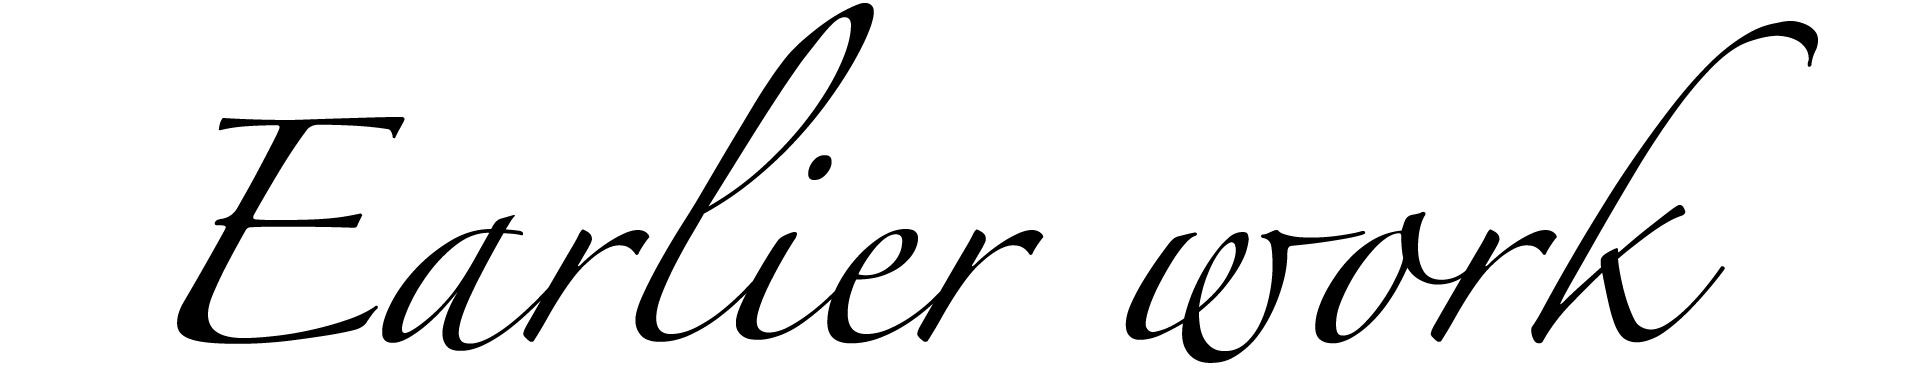
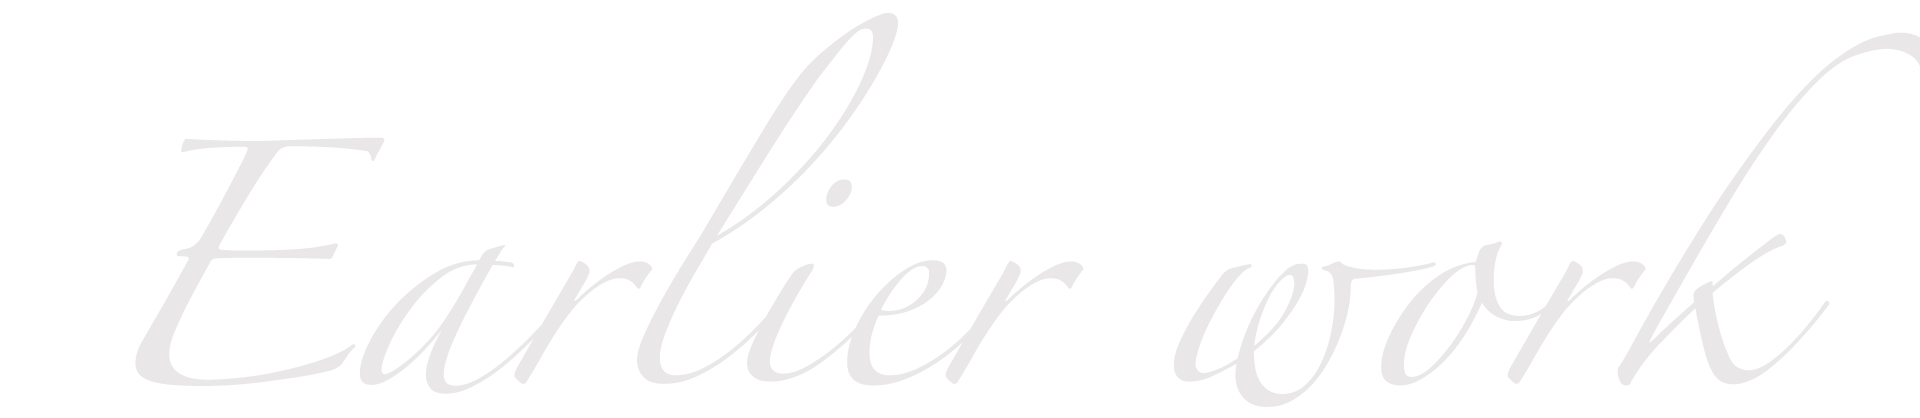
build

diff --git a/src/components/comp/gallery.vue b/src/components/comp/gallery.vue
@@ -1,16 +1,66 @@
 <template>
-    <section class="gallery-wrap gray-bg my-5">
-
-        <div class="fornow">
-
+    <section class="gallery-wrap  my-5">
+        <div>
             <v-img :src="getImgUrl('earlierwork.png')" class="earlier-work">
             </v-img>
+            <div class="gallery-container gray-bg">
+                <h2 class="display-4 font-weight-bold text-uppercase text-xs-right pr-5"><span>{{heading}}</span></h2>
+                <!-- <h3 class="mt-5 text-uppercase display-3 font-weight-black mb-3">{{heading}}</h3> -->
+
+                <div>
+                    <v-layout row wrap justify-center class="py-5">
+                        <v-flex xs12 sm5>
+                            <div class="justify-center ml-5">
+                                <v-img class="img-border elevation-2" :src="currentImg" alt=""></v-img>
+                            </div>
+                        </v-flex>
+                        <v-flex xs12s sm6 pa-5>
+                            <h3 class="mt-5 text-uppercase display-1 font-weight-black mb-3">{{heading}}</h3>
+
+                            <!-- TODO Gör om till data?  -->
+                            <p>Lorem ipsum dolor sit amet consectetur adipisicing elit. Minus quod sequi magni
+                                porro maxime nulla alias perferendis dolore dolorum voluptate, quis et!
+                                Recusandae
+                                dolore explicabo eius? Eos eveniet dolorem deserunt tempore illo hic, optio
+                                ratione
+                                saepe a excepturi id architecto?</p>
+                            <p>Lorem ipsum dolor sit amet consectetur, adipisicing elit. Dicta necessitatibus,
+                                et tempore fugiat alias voluptate veritatis iusto expedita esse nulla
+                                repudiandae molestiae. Minus est placeat mollitia aspernatur soluta laborum
+                                velit.</p>
+                            <div class="justify-center button-wrap">
+                                <!-- TODO centrera knapp-->
+                                <v-btn class="lighten-2 mt-3 px-5 py-4 large-btn-80 about-btn" dark large href="#">
+                                    CV & PL
+                                </v-btn>
+                            </div>
+                        </v-flex>
+                    </v-layout>
+
+
+    <carousel />
+                </div>
+
+            </div>
+
         </div>
+
     </section>
 </template>
 
 <script>
+    import carousel from './childcomponents/carousel'
+
     export default {
+        components: {
+            carousel
+        },
+        data: function () {
+            return {
+                heading: "Gallery",
+                currentImg: "https://picsum.photos/400/500?random"
+            }
+        },
         methods: {
             getImgUrl(img) {
                 return require('@/assets/images/' + img)
@@ -20,14 +70,5 @@
 </script>
 
 <style>
-    .fornow {
-        height: 300px;
-       /* HÄR ÄR JAG! Gör container runt gallery för att text ska skjutas upp  */
-    }
 
-    .gallery-wrap {
-        padding: 30px;
-        margin-top: 200px !important;
-
-    }
 </style>

diff --git a/src/assets/css/style.scss b/src/assets/css/style.scss
@@ -3,7 +3,7 @@ $main-color-light:#EADCDB;
 $main-color: #D4B7B5;
 $main-color-dark: #94807F;
 $dark-color:#544948;
-$gray-color: rgb(233, 231, 231);
+$gray-color: #e9e7e7;
 
 /*Generellt*/
 .link {
@@ -42,19 +42,24 @@ $gray-color: rgb(233, 231, 231);
 .main-bg {
     background-color: $main-color;
 }
+
 .light-bg {
     background-color: $light-color;
 }
+
 .main-light-bg {
     background-color: $main-color-light;
 }
+
 .main-dark-bg {
     background-color: $main-color-dark;
 
 }
+
 .dark-bg {
     background-color: $dark-color;
 }
+
 .gray-bg {
     background-color: $gray-color;
 }
@@ -106,7 +111,7 @@ $gray-color: rgb(233, 231, 231);
 }
 
 .text-dark-bg {
-    background-color:$dark-color;
+    background-color: $dark-color;
     padding: 2px 30px;
 }
 
@@ -114,17 +119,39 @@ $gray-color: rgb(233, 231, 231);
 
 
 /*sellingpoint*/
-.selling-img{
-    height:400px;
-    
+.selling-img {
+    height: 400px;
+
 }
 
 /*Gallery*/
 .earlier-work {
-    width:100%;
+    width: 100%;
+}
+
+.gallery-container {
+    width: 100%;
+    height: auto;
+    /* background-color: green; */
     position: relative;
-    z-index: 1;
-    
+    // background-color: $;
+    top: -60px;
+    z-index: 4;
+    left: 0;
+
+    h2 span{
+        position: relative;
+        top: -60px;
+    }
+}
+
+
+.gallery-wrap {
+    /* padding: 30px; */
+    height: auto;
+    margin: 200px 0 !important;
+    position: relative;
+    /* z-index: 3; */
 }
 
 

diff --git a/src/components/comp/hero.vue b/src/components/comp/hero.vue
@@ -7,8 +7,8 @@
                     <v-layout row wrap align-center>
                         <!-- <v-layout column align-center justify-center class="white--text"> -->
                         <v-flex md6 xl4 class="relative offset-xl1">
-                            <img class="img-border hero-pix-under responsive" src="https://picsum.photos/500/650" alt="">
-                            <img class="img-border hero-pic-on-top" src="https://picsum.photos/300/400" alt="">
+                            <img class="img-border hero-pix-under responsive" src="https://picsum.photos/g/500/650?random" alt="">
+                            <img class="img-border hero-pic-on-top" src="https://picsum.photos/g/300/400?random" alt="">
                         </v-flex>
                         <v-flex md5 xl5  class="py-5 offset-md1 hero-text">
                             <h1 class=" display-4 text-xs-left text-align-left font-weight-bold text-uppercase">Tjenare</h1>

diff --git a/src/App.vue b/src/App.vue
@@ -1,9 +1,10 @@
 <template>
   <v-app>
-   <Nav />
+    <Nav />
     <v-content>
       <StartPage />
-      <HelloWorld />
+      <Footer />
+    <HelloWorld />
     </v-content>
   </v-app>
 </template>
@@ -11,14 +12,16 @@
 <script>
   import HelloWorld from './components/comp/HelloWorld'
   import Nav from './components/comp/services/nav'
+  import Footer from './components/comp/services/footer'
   import StartPage from './components/views/startpage'
 
   export default {
     name: 'App',
     components: {
-      HelloWorld, 
+      StartPage,
+      HelloWorld,
       Nav,
-      StartPage
+      Footer
     },
     data() {
       return {

diff --git a/src/assets/css/style.css b/src/assets/css/style.css
@@ -117,8 +117,29 @@
 /*Gallery*/
 .earlier-work {
   width: 100%;
+}
+
+.gallery-container {
+  width: 100%;
+  height: auto;
+  /* background-color: green; */
   position: relative;
-  z-index: 1;
+  top: -60px;
+  z-index: 4;
+  left: 0;
+}
+
+.gallery-container h2 span {
+  position: relative;
+  top: -60px;
+}
+
+.gallery-wrap {
+  /* padding: 30px; */
+  height: auto;
+  margin: 200px 0 !important;
+  position: relative;
+  /* z-index: 3; */
 }
 
 @media (min-width: 1200px) {

diff --git a/src/components/comp/intro.vue b/src/components/comp/intro.vue
@@ -30,13 +30,13 @@
         </v-container>
       </v-layout>
 
-<introText />
+      <introText />
     </section>
   </v-content>
 </template>
 
 <script>
-import introText from './childcomponents/introText'
+  import introText from './childcomponents/introText'
 
   export default {
     components: {

diff --git a/src/components/comp/services/footer.vue b/src/components/comp/services/footer.vue
@@ -1,0 +1,15 @@
+<template>
+    <div class="rotate-text">
+                    <h2 class="display-4 font-weight-bold text-uppercase about-headline"><span>About</span></h2>
+                </div>
+</template>
+
+<script>
+export default {
+
+}
+</script>
+
+<style>
+
+</style>

diff --git a/src/components/comp/about.vue b/src/components/comp/about.vue
@@ -71,7 +71,7 @@
         left: 5%;
     }
 
-    h2 span {
+   .rotate-text h2 span {
         width: 150px;
         /* same as height of .rotate-text */
         -webkit-transform-origin: 84px 70px;

diff --git a/src/components/comp/childcomponents/carousel.vue b/src/components/comp/childcomponents/carousel.vue
@@ -1,0 +1,16 @@
+<template>
+    <section>
+
+        
+    </section>
+</template>
+
+<script>
+export default {
+
+}
+</script>
+
+<style>
+
+</style>
